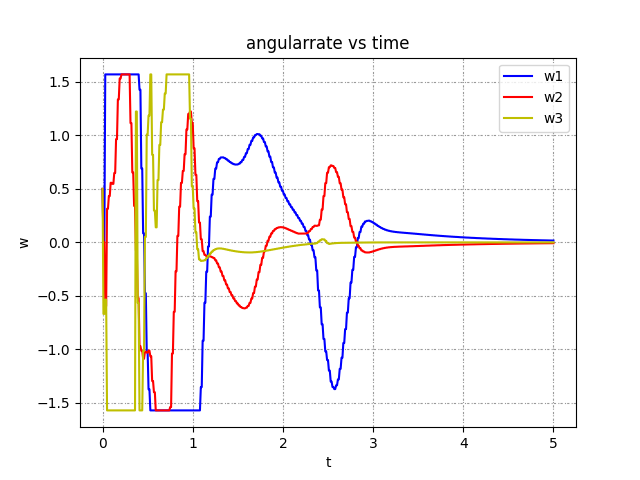
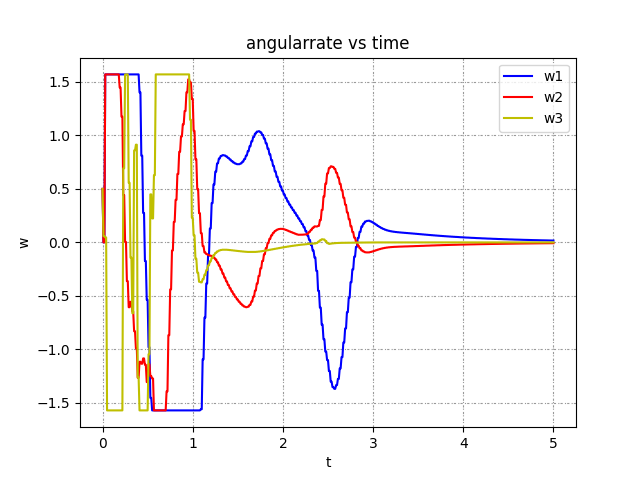
improve MPC dynamic freq

diff --git a/gestelt_bringup/src/learning_agent_node.py b/gestelt_bringup/src/learning_agent_node.py
@@ -193,7 +193,8 @@ class LearningAgileAgentNode():
                                     # AttitudeTarget.IGNORE_THRUST+AttitudeTarget.IGNORE_PITCH_RATE+\
                                     # AttitudeTarget.IGNORE_YAW_RATE+AttitudeTarget.IGNORE_ROLL_RATE
         
-        mavros_attitude_setpoint.type_mask = AttitudeTarget.IGNORE_ATTITUDE
+        # mavros_attitude_setpoint.type_mask = AttitudeTarget.IGNORE_ATTITUDE
+        
 
 
         # thrust_each: each propeller thrust, in N
@@ -205,7 +206,7 @@ class LearningAgileAgentNode():
         mavros_attitude_setpoint.thrust = input[0]/((0.8706+0.25)*4) # normalize to [0,1]
 
         mavros_attitude_setpoint.body_rate=body_rate_setpoint
-        # mavros_attitude_setpoint.orientation=attitude_setpoint
+        mavros_attitude_setpoint.orientation=attitude_setpoint
         
         #---------- publish the setpoint（PV or attitude)-----------------#
         # self.next_setpoint_pub.publish(pos_vel_setpoint)

diff --git a/gestelt_bringup/src/Learning_Agile/learning_agile_agent.py b/gestelt_bringup/src/Learning_Agile/learning_agile_agent.py
@@ -155,9 +155,8 @@ class LearningAgileAgent():
         
 
         self.quad1.init_obstacle(self.gate_point.reshape(12))
-        self.quad1.uav1.setDyn(0.01)
+        self.quad1.uav1.setDyn(0.002)
         
-        # self.quad2 = run_quad(goal_pos=self.final_point,horizon=horizon,gazebo_sim=gazebo_sim) #solver_inputs[13:16]
         print('start_point=',self.env_inputs[0:3])
         print('final_point=',self.env_inputs[3:6])
         
